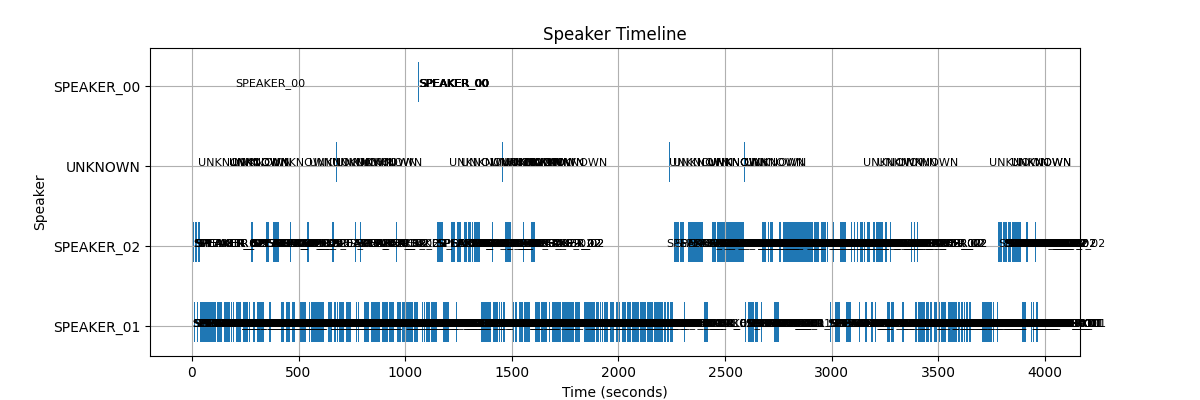
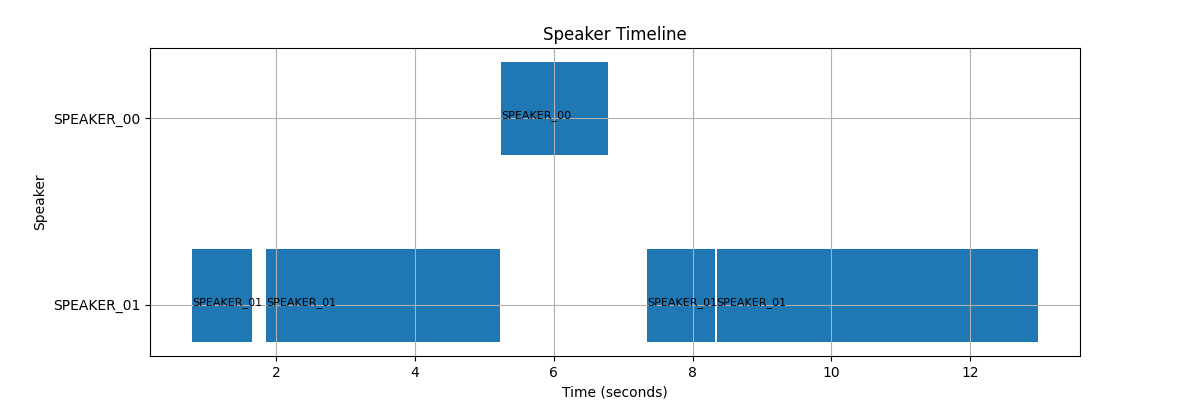
update

diff --git a/app/services/stt_service.py b/app/services/stt_service.py
@@ -19,7 +19,7 @@ if device == "cuda":
     print(torch.cuda.get_device_name(0))
     
 model = whisperx.load_model(
-    "large",
+    "medium",
     device=device,
     compute_type="float32"
 )
